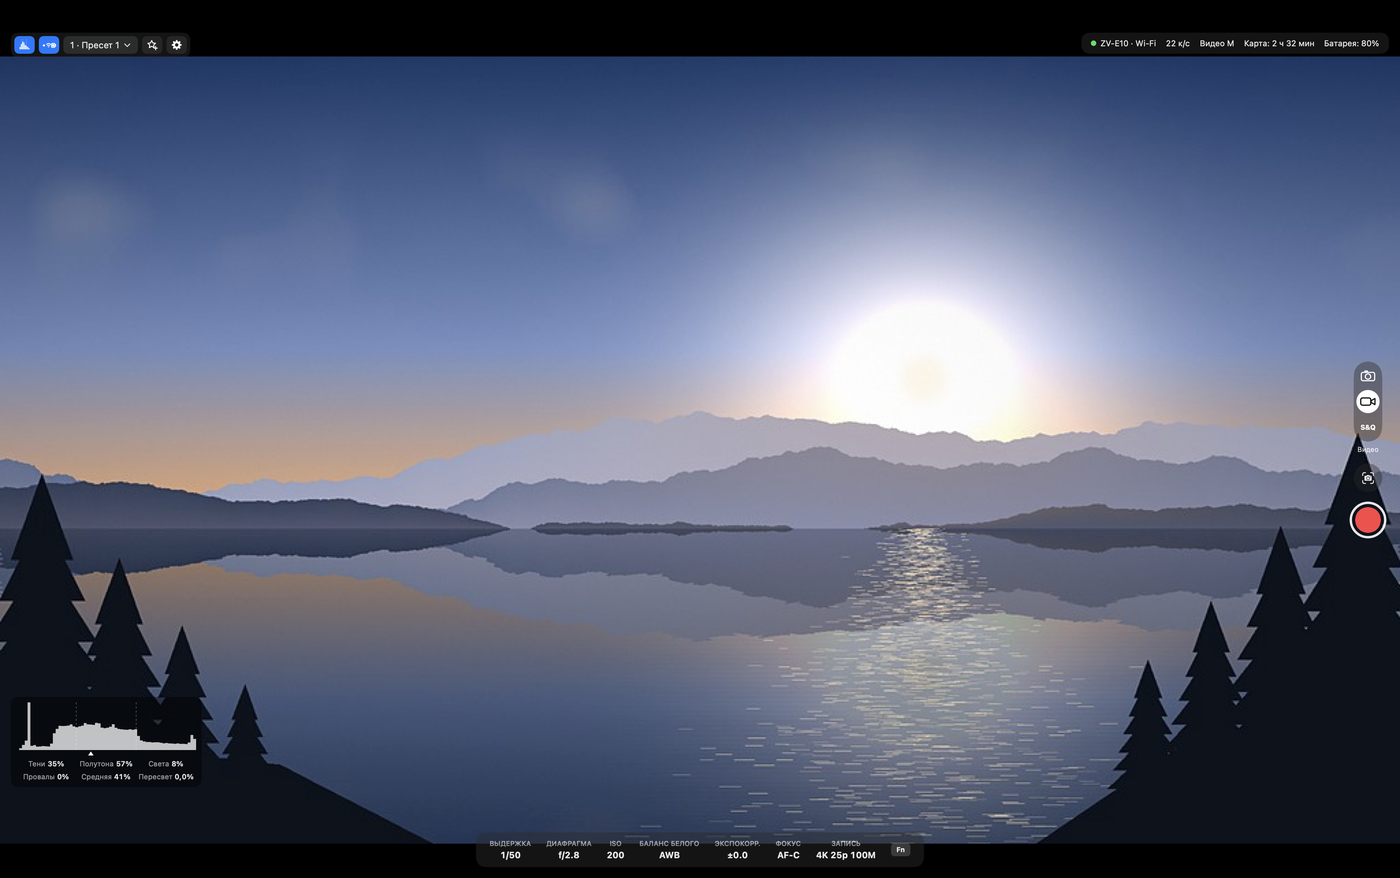
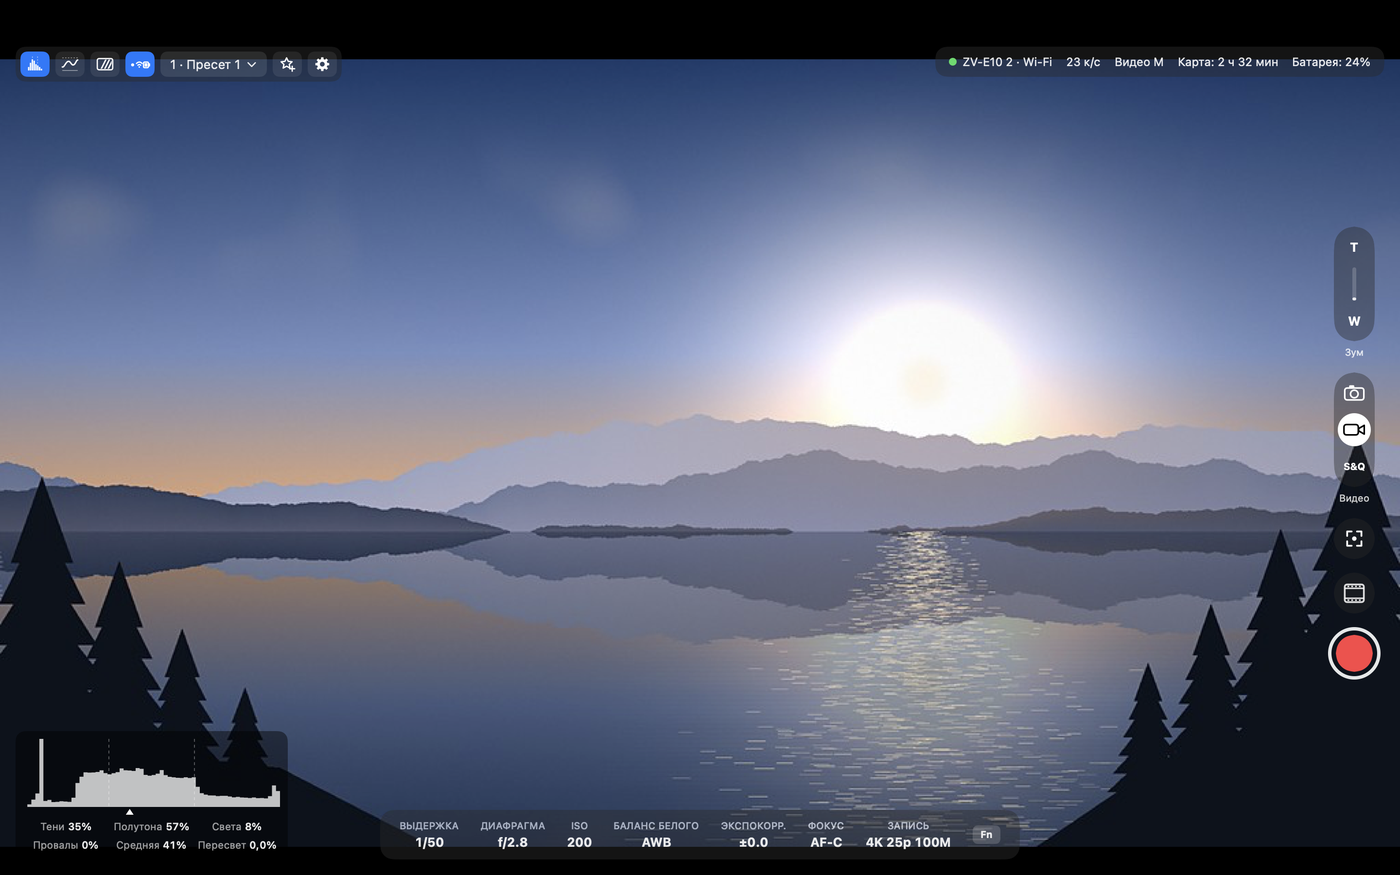
docs: README reworked — new screenshots, cover, feedback, young-app and phone notes
All screenshots retaken with the 0.8.0 interface: Mac from a 1440x900 window (larger UI
in the README), tablet scaled to 1400 px; new tablet shots of the monitor tools and
touch focus; the cover rebuilt with ten feature badges. README: notes that the app has
not been through long real shoots yet (feedback wanted, early bugs will be fixed) and
that only tablet and Mac layouts exist (phones soon), a Feedback section, a gallery with
the main pairs up front and the rest folded.

diff --git a/README.md b/README.md
@@ -17,9 +17,15 @@
   <a href="https://github.com/Scryptor/SonyCamViewer/releases/latest/download/Sony-Cam-Viewer.dmg"><b>⬇ Скачать для Mac (DMG)</b></a>
 </p>
 
-![Sony Cam Viewer на планшете: четыре камеры, три связаны и пишут, гистограмма, строка значений](docs/screenshots/0-overview.jpg)
+![Sony Cam Viewer на планшете: четыре камеры, три связаны и пишут; пресеты, «Монитор», зум и фокус касанием, гистограмма, строка значений](docs/screenshots/0-overview.jpg)
 
 Замена Imaging Edge Desktop (Remote) без лишнего — для камер Sony с режимом PC Remote, см. [Какие камеры подойдут](#какие-камеры-подойдут). Бесплатно, без рекламы и регистрации.
+
+> [!IMPORTANT]
+> **Программа молодая.** Долго в боевых условиях — на настоящих съёмках — её ещё не гоняли, поэтому возможны детские болячки. Очень ждём ваших отзывов: что работает, что нет, чего не хватает. Пишите в [Issues](https://github.com/Scryptor/SonyCamViewer/issues) — всё исправим. Как рассказать об ошибке — в разделе [Обратная связь](#обратная-связь).
+
+> [!NOTE]
+> **Пока есть интерфейсы для Android-планшета и для Mac.** На телефоне программа запустится, но раскладка рассчитана на большой экран; версия под телефоны будет в ближайшее время.
 
 ## Главное
 
@@ -29,7 +35,7 @@
 - 🎥 **До 4 камер сразу**: главная на большом экране, остальные — живыми плитками. Переключение мгновенное, даже во время записи.
 - 🔗 **Группа или каждая камера сама по себе**: связанные с главной камеры повторяют за ней настройки, пресеты и запись — одна кнопка на все; несвязанные настраиваются отдельно.
 - ⭐ **Пресеты** отдельно для фото и видео — свои настройки одной кнопкой.
-- 📊 **Гистограмма**, цифровое увеличение до 8× для фокуса, галерея снимков с проверкой резкости.
+- 📊 **Гистограмма и волновая форма**, цифровое увеличение до 8× для фокуса, галерея снимков с проверкой резкости.
 - 🖥 **Как у мониторов**: зебра, false color, пикинг (работает и на увеличении до 8×), волновая форма и RGB-парад, сетка, центр, рамки 9:16 / 4:5 / 1:1 / 2.39, безопасная зона, наложение эталонного кадра.
 - 🎯 **Фокус и зум с экрана**: фокус касанием по кадру с рамками фокуса камеры, моторный зум (T / W), шкала ручного фокуса.
 - 🧩 Без драйверов, root и сторонних библиотек. Код открыт.
@@ -49,6 +55,7 @@
   <a href="#подключение-по-wi-fi">Wi-Fi</a> ·
   <a href="#управление">Управление</a> ·
   <a href="#ограничения">Ограничения</a> ·
+  <a href="#обратная-связь">Обратная связь</a> ·
   <a href="#сборка-из-исходников">Сборка</a>
 </p>
 
@@ -57,7 +64,7 @@
 | | Mac | Android |
 |---|---|---|
 | **Файл** | [Sony-Cam-Viewer.dmg](https://github.com/Scryptor/SonyCamViewer/releases/latest/download/Sony-Cam-Viewer.dmg) | [Sony-Cam-Viewer.apk](https://github.com/Scryptor/SonyCamViewer/releases/latest/download/Sony-Cam-Viewer.apk) |
-| **Что нужно** | Mac на Apple Silicon, macOS 14 или новее | Android 10 или новее, планшет или телефон с USB OTG |
+| **Что нужно** | Mac на Apple Silicon, macOS 14 или новее | Android 10 или новее, планшет с USB OTG (раскладка под телефоны — скоро) |
 | **Камера подключается** | кабелем USB-C или по Wi-Fi | кабелем USB-C или по Wi-Fi |
 | **Как поставить** | [Установка на Mac](#установка-на-mac) | [Установка на Android](#установка-на-android) |
 
@@ -69,15 +76,26 @@
 
 | Mac | Android-планшет |
 |---|---|
-| ![Mac: главный экран](docs/screenshots/1-main.png) | ![Android: главный экран](docs/screenshots/6-android.png) |
+| ![Mac: главный экран — гистограмма, строка значений, справа зум, режим, фокус касанием и запись](docs/screenshots/1-main.png) | ![Android: главный экран — гистограмма, строка значений, справа зум, режим, фокус касанием и запись](docs/screenshots/6-android.png) |
 
-| Меню Fn на Mac | Меню Fn на Android |
+| «Монитор» на Mac: пикинг, зебра, трети, волновая форма | «Монитор» на планшете: рамка 9:16, безопасная зона, зебра, пикинг |
 |---|---|
-| ![Mac: меню Fn с балансом белого](docs/screenshots/2-fn.png) | ![Android: меню Fn с балансом белого](docs/screenshots/7-android-fn.png) |
+| ![Mac: меню «Монитор», пикинг, зебра 95 % на солнце, трети и волновая форма](docs/screenshots/13-mac-monitor.png) | ![Android: меню «Монитор», рамка 9:16 с безопасной зоной, зебра и пикинг, волновая форма](docs/screenshots/15-android-monitor.png) |
 
-| Лента камер и группа на Mac | Лента камер и запись на планшете |
+| Фокус и зум на Mac: шкала фокуса в MF, рамка AF | Фокус касанием на планшете: слежение, зум, RGB-парад |
+|---|---|
+| ![Mac: зум к теле, рамка точки AF, шкала ручного фокуса и RGB-парад](docs/screenshots/14-mac-lens.png) | ![Android: рамка слежения после касания кадра, «Снять слежение», зум и RGB-парад](docs/screenshots/16-android-lens.png) |
+
+| Меню Fn на Mac | Меню Fn на планшете |
+|---|---|
+| ![Mac: меню Fn с балансом белого — цветовая температура и сдвиг A–B / G–M](docs/screenshots/2-fn.png) | ![Android: меню Fn с балансом белого — цветовая температура и сдвиг A–B / G–M](docs/screenshots/7-android-fn.png) |
+
+| Лента камер и группа на Mac | Четыре камеры и запись на планшете |
 |---|---|
 | ![Mac: три камеры на связи, две связаны с главной](docs/screenshots/9-mac-strip.png) | ![Android: четыре камеры, три связаны и пишут одновременно](docs/screenshots/12-android-group-rec.png) |
+
+<details>
+<summary><b>Ещё скриншоты</b>: экран ожидания, все настройки, фоторежим, просмотр снимка, пресеты</summary>
 
 | Экран ожидания на Mac | Экран ожидания на планшете |
 |---|---|
@@ -85,15 +103,13 @@
 
 | Все настройки | Фоторежим |
 |---|---|
-| ![Все настройки](docs/screenshots/3-all.png) | ![Фоторежим](docs/screenshots/4-photo.png) |
+| ![Mac: все настройки, группа «Экспозиция»](docs/screenshots/3-all.png) | ![Mac: фоторежим, спуск и снимок в ленте](docs/screenshots/4-photo.png) |
 
 | Просмотр после съёмки | Пресеты на планшете |
 |---|---|
-| ![Просмотр снимка](docs/screenshots/5-review.png) | ![Android: панель пресетов](docs/screenshots/8-android-presets.png) |
+| ![Mac: просмотр снимка после съёмки](docs/screenshots/5-review.png) | ![Android: панель пресетов](docs/screenshots/8-android-presets.png) |
 
-| Монитор: пикинг, зебра, сетка, волновая форма | Фокус и зум: шкала фокуса в MF, T / W, RGB-парад |
-|---|---|
-| ![Mac: меню «Монитор», пикинг, зебра 95 % на солнце, трети и волновая форма](docs/screenshots/13-mac-monitor.png) | ![Mac: зум к теле, шкала ручного фокуса и RGB-парад](docs/screenshots/14-mac-lens.png) |
+</details>
 
 На скриншотах — виртуальная камера из `scripts/fake_camera.py`. В её видоискателе нарисованное кодом горное озеро, а не съёмка настоящей камеры.
 
@@ -167,7 +183,7 @@
 
 ## Установка на Android
 
-Нужен Android 10 или новее и планшет или телефон, к которому по USB можно подключать устройства (USB host, OTG): это умеет почти любой современный. Программа сделана на Redmi Pad Pro с Android 14.
+Нужен Android 10 или новее и планшет, к которому по USB можно подключать устройства (USB host, OTG): это умеет почти любой современный. Программа сделана на Redmi Pad Pro с Android 14. На телефоне она тоже запустится, но раскладка пока рассчитана на экран планшета; версия под телефоны — в ближайшее время.
 
 1. Скачайте [Sony-Cam-Viewer.apk](https://github.com/Scryptor/SonyCamViewer/releases/latest/download/Sony-Cam-Viewer.apk) прямо на планшет и откройте его. Android попросит разрешить установку из этого источника — разрешите.
 2. [Настройте камеру](#настройка-камеры) и подключите её к планшету кабелем USB-C.
@@ -336,6 +352,17 @@
 - **Зебра, false color, пикинг, волновая форма** — по превью, а не по записываемому видео: ориентир, как и гистограмма. Пикинг по превью 1024×576 точнее всего вместе с увеличением, а в тёмной сцене подсвечивает меньше краёв.
 - **Несколько камер сразу** проверены на виртуальных камерах; на нескольких настоящих — пока нет.
 - **Зум объективом с электроприводом** проверен на виртуальной камере; на настоящей — Clear Image Zoom.
+
+## Обратная связь
+
+Программе нужны отзывы с настоящих съёмок — особенно с других камер Sony, других планшетов и долгих записей. Нашли ошибку или чего-то не хватает — откройте [Issues](https://github.com/Scryptor/SonyCamViewer/issues) и напишите:
+
+- камеру и прошивку, Mac или планшет (модель и версию системы);
+- как подключена камера: кабелем, через роутер или Wi-Fi Direct;
+- что делали, что ожидали и что получилось; скриншот или видео экрана очень помогают;
+- журнал из панели отладки: <kbd>⌥</kbd><kbd>⌘</kbd><kbd>D</kbd> на Mac или долгое нажатие на строку состояния на планшете → «Скопировать». Серийный номер, MAC-адрес и GUID в нём не показываются.
+
+Ошибки чиним быстро, новые версии выходят на странице [Releases](https://github.com/Scryptor/SonyCamViewer/releases).
 
 ## Документация
 

diff --git a/docs/user-guide.md b/docs/user-guide.md
@@ -622,6 +622,12 @@ Sony Cam Viewer показывает живое видео с камеры Sony 
 
 ![Экран ожидания на планшете](screenshots/11-android-waiting.png)
 
+| «Монитор» на планшете | Фокус касанием и зум |
+|---|---|
+| ![Меню «Монитор» на планшете: рамка 9:16, безопасная зона, зебра, пикинг и волновая форма](screenshots/15-android-monitor.png) | ![Рамка слежения после касания кадра, «Снять слежение», зум и RGB-парад](screenshots/16-android-lens.png) |
+
+Пока интерфейс сделан для планшета: на телефоне программа запустится, но раскладка рассчитана на большой экран. Версия под телефоны — в ближайшее время.
+
 Приложение для Android повторяет программу для Mac: всё, что описано выше, работает и там. Установка — в [README](../README.md#установка-на-android). Чем оно отличается:
 
 | На Mac | На планшете |
